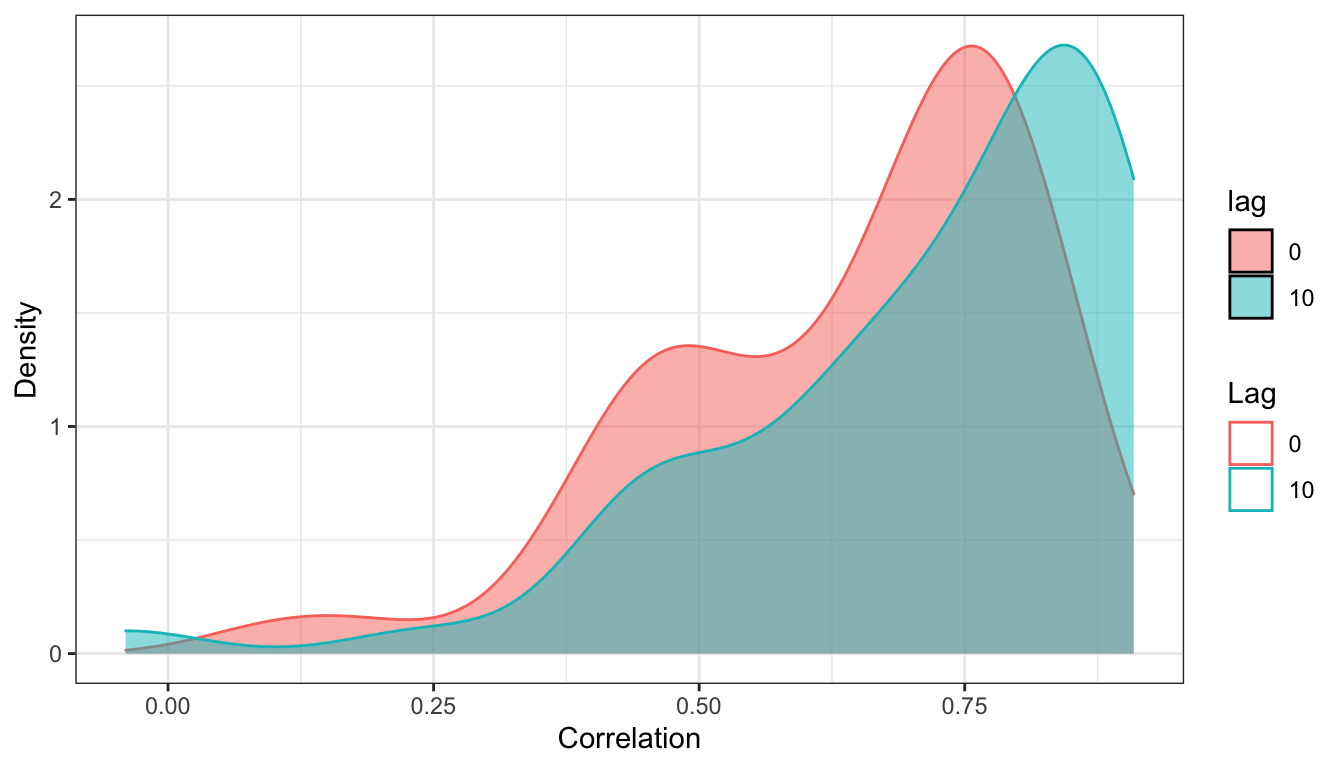
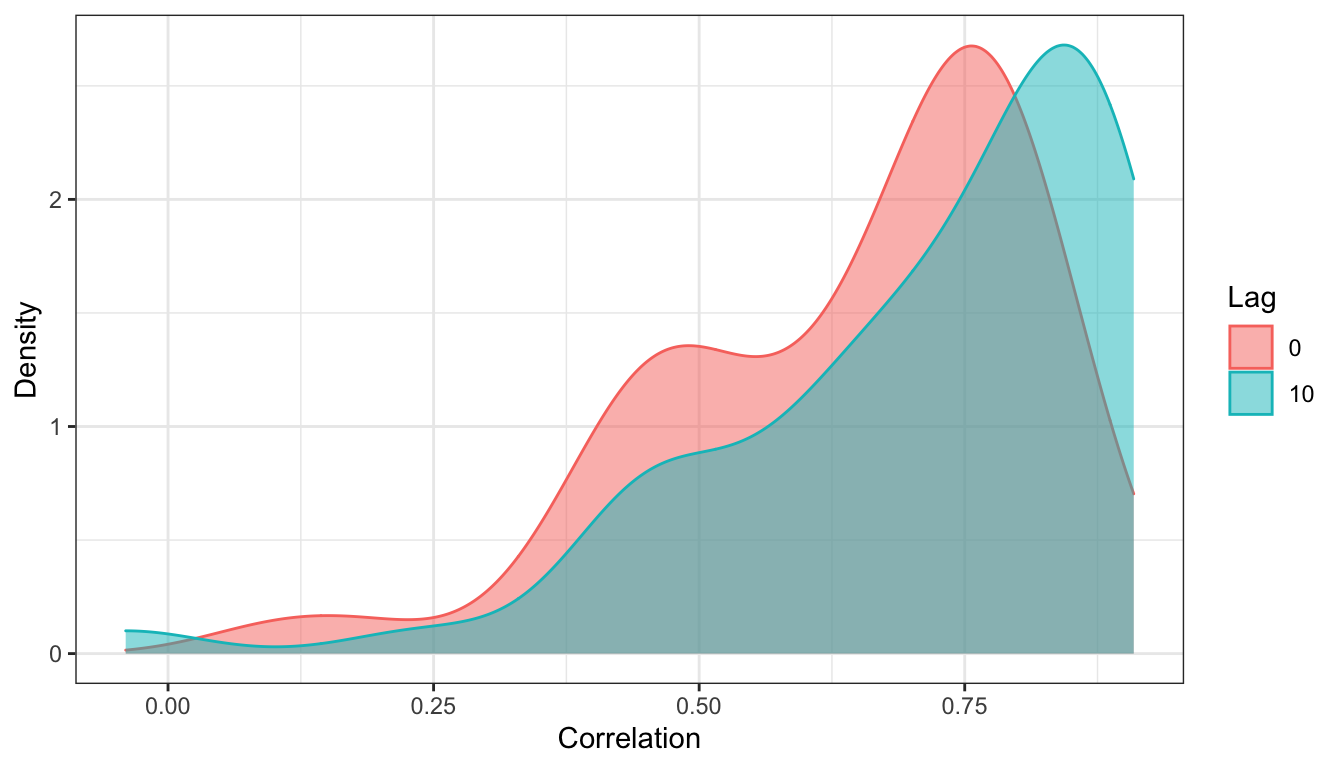
Fix legend

Changed region(s): [[0.9062, 0.25, 1.0, 0.6562], [0.9062, 0.6562, 0.9375, 0.6875]]

diff --git a/docs/index.html b/docs/index.html
@@ -5,13 +5,13 @@
 <meta charset="utf-8">
 <meta http-equiv="X-UA-Compatible" content="IE=edge">
 <meta name="viewport" content="width=device-width, initial-scale=1.0">
-<title>Tools for Basic Signal Processing in Epidemiology • epitools</title>
+<title>Tools for basic signal processing in epidemiology • epitools</title>
 <!-- jquery --><script src="https://cdnjs.cloudflare.com/ajax/libs/jquery/3.4.1/jquery.min.js" integrity="sha256-CSXorXvZcTkaix6Yvo6HppcZGetbYMGWSFlBw8HfCJo=" crossorigin="anonymous"></script><!-- Bootstrap --><link rel="stylesheet" href="https://cdnjs.cloudflare.com/ajax/libs/twitter-bootstrap/3.4.1/css/bootstrap.min.css" integrity="sha256-bZLfwXAP04zRMK2BjiO8iu9pf4FbLqX6zitd+tIvLhE=" crossorigin="anonymous">
 <script src="https://cdnjs.cloudflare.com/ajax/libs/twitter-bootstrap/3.4.1/js/bootstrap.min.js" integrity="sha256-nuL8/2cJ5NDSSwnKD8VqreErSWHtnEP9E7AySL+1ev4=" crossorigin="anonymous"></script><!-- bootstrap-toc --><link rel="stylesheet" href="bootstrap-toc.css">
 <script src="bootstrap-toc.js"></script><!-- Font Awesome icons --><link rel="stylesheet" href="https://cdnjs.cloudflare.com/ajax/libs/font-awesome/5.12.1/css/all.min.css" integrity="sha256-mmgLkCYLUQbXn0B1SRqzHar6dCnv9oZFPEC1g1cwlkk=" crossorigin="anonymous">
 <link rel="stylesheet" href="https://cdnjs.cloudflare.com/ajax/libs/font-awesome/5.12.1/css/v4-shims.min.css" integrity="sha256-wZjR52fzng1pJHwx4aV2AO3yyTOXrcDW7jBpJtTwVxw=" crossorigin="anonymous">
 <!-- clipboard.js --><script src="https://cdnjs.cloudflare.com/ajax/libs/clipboard.js/2.0.6/clipboard.min.js" integrity="sha256-inc5kl9MA1hkeYUt+EC3BhlIgyp/2jDIyBLS6k3UxPI=" crossorigin="anonymous"></script><!-- headroom.js --><script src="https://cdnjs.cloudflare.com/ajax/libs/headroom/0.11.0/headroom.min.js" integrity="sha256-AsUX4SJE1+yuDu5+mAVzJbuYNPHj/WroHuZ8Ir/CkE0=" crossorigin="anonymous"></script><script src="https://cdnjs.cloudflare.com/ajax/libs/headroom/0.11.0/jQuery.headroom.min.js" integrity="sha256-ZX/yNShbjqsohH1k95liqY9Gd8uOiE1S4vZc+9KQ1K4=" crossorigin="anonymous"></script><!-- pkgdown --><link href="pkgdown.css" rel="stylesheet">
-<script src="pkgdown.js"></script><meta property="og:title" content="Tools for Basic Signal Processing in Epidemiology">
+<script src="pkgdown.js"></script><meta property="og:title" content="Tools for basic signal processing in epidemiology">
 <meta property="og:description" content="This package contains tools for basic signal processing tasks in
     epidemiology, which includes computing percentage changes in signals,
     estimating derivatives, and computing correlations.  ">
@@ -96,7 +96,6 @@
 <div class="page-header"><h1 class="hasAnchor">
 <a href="#epitools" class="anchor"></a>epitools</h1></div>
 <p>Tools for basic signal processing in epidemiology.</p>
-<p>See <a href="https://cmu-delphi.github.io/epitools/">here</a> for documentation.</p>
 </div>
   </div>
 

diff --git a/docs/articles/correlations.html b/docs/articles/correlations.html
@@ -172,7 +172,7 @@
 
 <span class="fu"><a href="https://ggplot2.tidyverse.org/reference/ggplot.html">ggplot</a></span>(<span class="no">z</span>, <span class="fu"><a href="https://ggplot2.tidyverse.org/reference/aes.html">aes</a></span>(<span class="no">value</span>)) +
   <span class="fu"><a href="https://ggplot2.tidyverse.org/reference/geom_density.html">geom_density</a></span>(<span class="fu"><a href="https://ggplot2.tidyverse.org/reference/aes.html">aes</a></span>(<span class="kw">fill</span> <span class="kw">=</span> <span class="no">lag</span>, <span class="kw">col</span> <span class="kw">=</span> <span class="no">lag</span>), <span class="kw">alpha</span> <span class="kw">=</span> <span class="fl">0.5</span>) +
-  <span class="fu"><a href="https://ggplot2.tidyverse.org/reference/labs.html">labs</a></span>(<span class="kw">x</span> <span class="kw">=</span> <span class="st">"Correlation"</span>, <span class="kw">y</span> <span class="kw">=</span> <span class="st">"Density"</span>, <span class="kw">col</span> <span class="kw">=</span> <span class="st">"Lag"</span>)</pre></body></html></div>
+  <span class="fu"><a href="https://ggplot2.tidyverse.org/reference/labs.html">labs</a></span>(<span class="kw">x</span> <span class="kw">=</span> <span class="st">"Correlation"</span>, <span class="kw">y</span> <span class="kw">=</span> <span class="st">"Density"</span>, <span class="kw">fill</span> <span class="kw">=</span> <span class="st">"Lag"</span>, <span class="kw">col</span> <span class="kw">=</span> <span class="st">"Lag"</span>)</pre></body></html></div>
 <p><img src="correlations_files/figure-html/unnamed-chunk-4-1.png" width="672"></p>
 <p>We can again see that, generally speaking, lagging the case rates back by 10 days improves the correlations.</p>
 </div>

diff --git a/docs/reference/epitools.html b/docs/reference/epitools.html
@@ -6,7 +6,7 @@
 <meta http-equiv="X-UA-Compatible" content="IE=edge">
 <meta name="viewport" content="width=device-width, initial-scale=1.0">
 
-<title>epitools: Tools for Basic Signal Processing in Epidemiology — epitools • epitools</title>
+<title>epitools: Tools for basic signal processing in epidemiology — epitools • epitools</title>
 
 
 <!-- jquery -->
@@ -39,7 +39,7 @@
 
 
 
-<meta property="og:title" content="epitools: Tools for Basic Signal Processing in Epidemiology — epitools" />
+<meta property="og:title" content="epitools: Tools for basic signal processing in epidemiology — epitools" />
 <meta property="og:description" content="The epitools package provides contains tools for basic signal processing
 tasks in epidemiology, which includes computing percentage changes in
 signals, estimating derivatives, and computing correlations." />
@@ -134,7 +134,7 @@ signals, estimating derivatives, and computing correlations." />
 <div class="row">
   <div class="col-md-9 contents">
     <div class="page-header">
-    <h1>epitools: Tools for Basic Signal Processing in Epidemiology</h1>
+    <h1>epitools: Tools for basic signal processing in epidemiology</h1>
     <small class="dont-index">Source: <a href='https://github.com/cmu-delphi/epitools/R/epitools.R'><code>R/epitools.R</code></a></small>
     <div class="hidden name"><code>epitools.Rd</code></div>
     </div>

diff --git a/docs/reference/index.html b/docs/reference/index.html
@@ -171,7 +171,7 @@
         <td>
           <p><code><a href="epitools.html">epitools</a></code> </p>
         </td>
-        <td><p>epitools: Tools for Basic Signal Processing in Epidemiology</p></td>
+        <td><p>epitools: Tools for basic signal processing in epidemiology</p></td>
       </tr><tr>
         
         <td>
